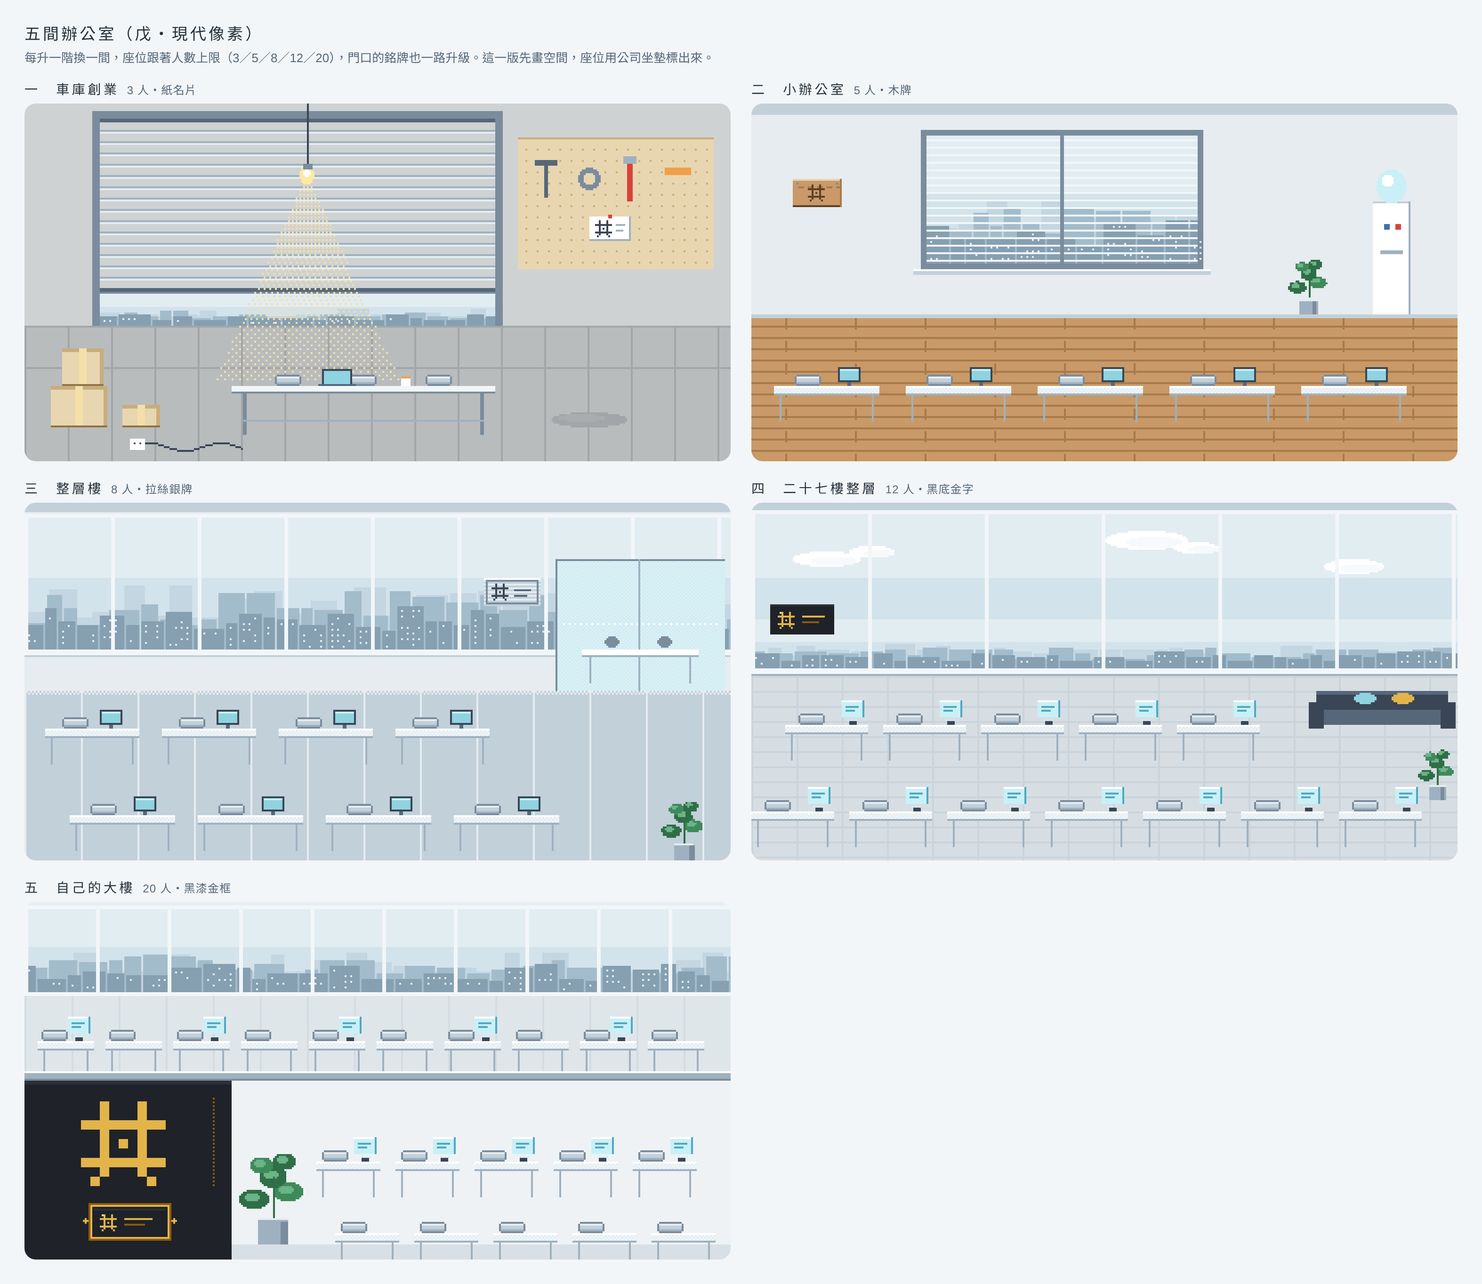
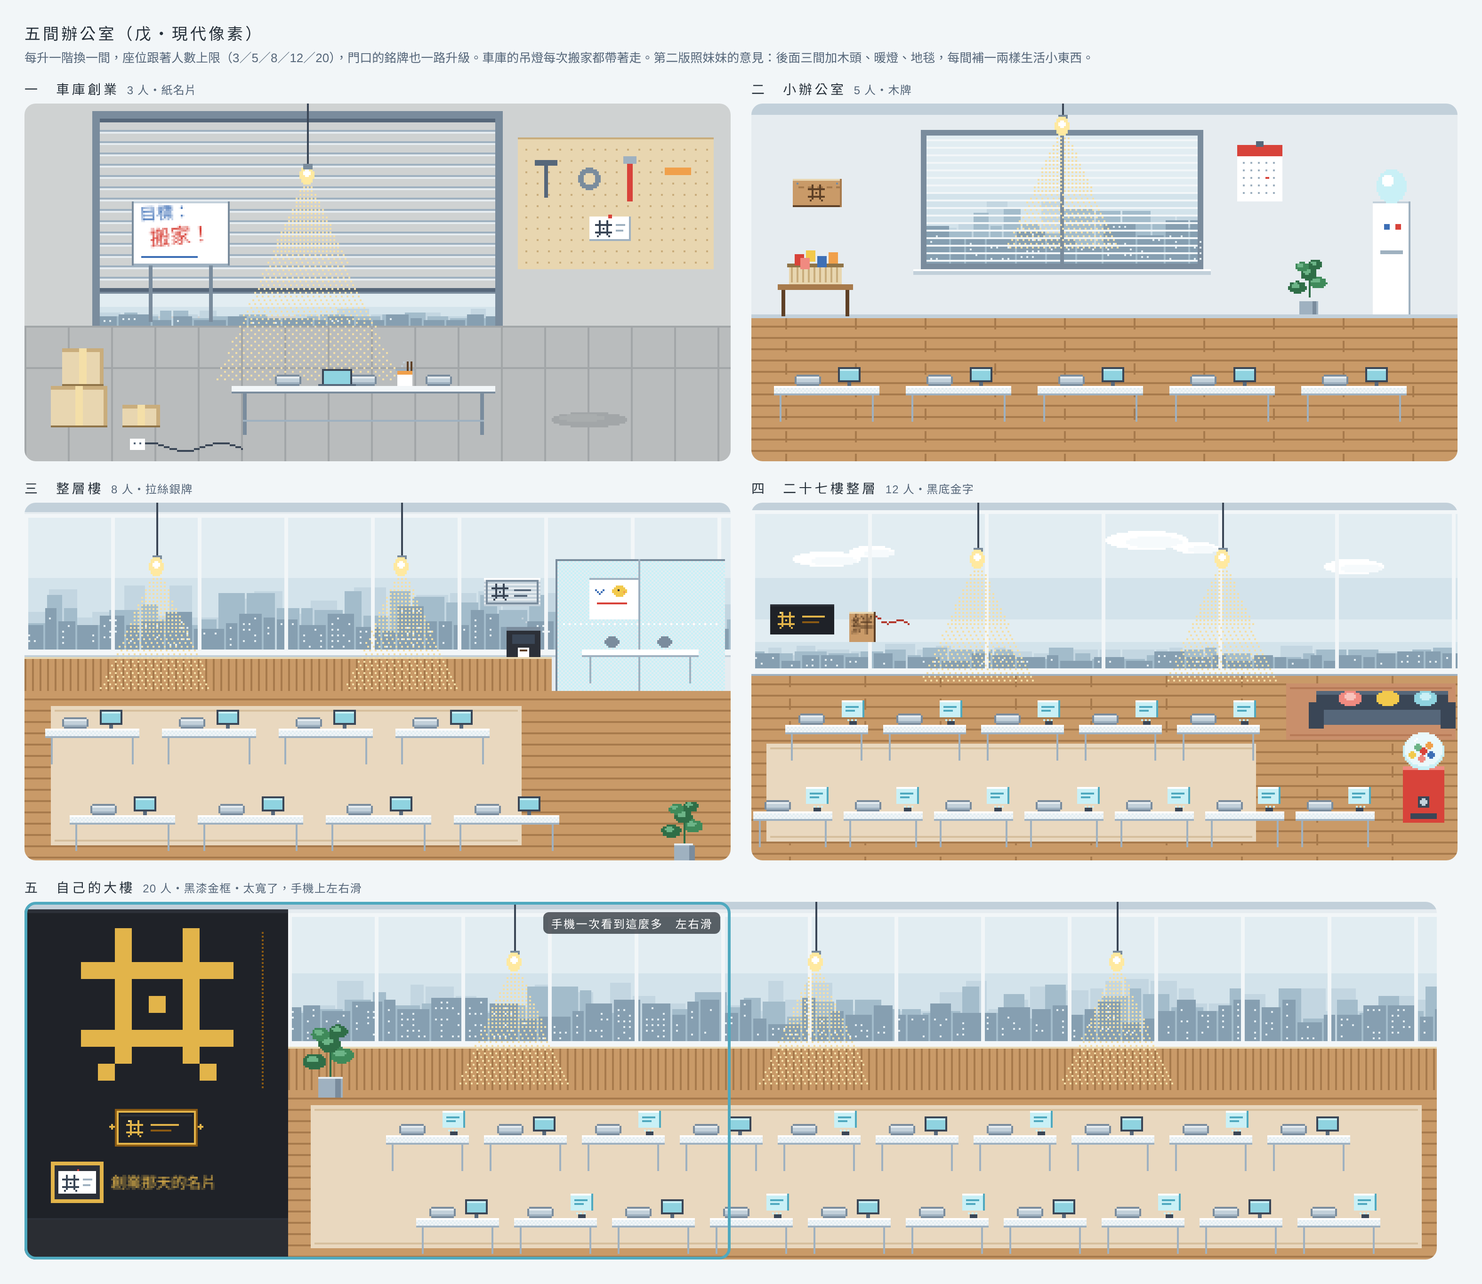
docs: five offices v2 (warmer, details, scrollable HQ)
Claude-Session: https://claude.ai/code/session_01DfELKGAuUeHGLNNJha5AAX

diff --git a/docs/plans/company/office5.html b/docs/plans/company/office5.html
@@ -5,17 +5,18 @@ body { margin: 0; background: #e4e2dd; font-family: "Noto Sans TC", sans-serif; 
 .wrap { display: inline-block; padding: 22px 26px 26px; background: #f2f6f8; }
 h1 { font-size: 17px; font-weight: 500; letter-spacing: .15em; margin: 0 0 4px; } p { font-size: 13px; margin: 0 0 14px; color: #56677a; }
 .grid { display: grid; grid-template-columns: repeat(2, 750px); gap: 18px 22px; }
-.cell h2 { font-size: 14px; font-weight: 500; letter-spacing: .2em; margin: 0 0 6px; } .cell h2 small { font-size: 12px; color: #56677a; letter-spacing: .05em; margin-left: 8px; }
+.cell h2 { font-size: 14px; font-weight: 500; letter-spacing: .2em; margin: 0 0 6px; } .wide { grid-column: span 2; } .scroll { position: relative; width: 1500px; } .scroll canvas { width: 1500px; height: 380px; } .view { position: absolute; left: 0; top: 0; width: 750px; height: 380px; border: 3px solid #4fa9bf; border-radius: 12px; box-sizing: border-box; pointer-events: none; } .view span { position: absolute; right: 8px; top: 8px; background: rgba(28,34,41,.7); color: #fff; font-size: 12px; padding: 3px 8px; border-radius: 6px; letter-spacing: .1em; }
+.cell h2 small { font-size: 12px; color: #56677a; letter-spacing: .05em; margin-left: 8px; }
 canvas { image-rendering: pixelated; width: 750px; height: 380px; display: block; border-radius: 12px; }
 </style></head><body><div class="wrap">
 <h1>五間辦公室（戊・現代像素）</h1>
-<p>每升一階換一間，座位跟著人數上限（3／5／8／12／20），門口的銘牌也一路升級。這一版先畫空間，座位用公司坐墊標出來。</p>
+<p>每升一階換一間，座位跟著人數上限（3／5／8／12／20），門口的銘牌也一路升級。車庫的吊燈每次搬家都帶著走。第二版照妹妹的意見：後面三間加木頭、暖燈、地毯，每間補一兩樣生活小東西。</p>
 <div class="grid">
   <div class="cell"><h2>一　車庫創業<small>3 人・紙名片</small></h2><canvas id="s1" width="375" height="190"></canvas></div>
   <div class="cell"><h2>二　小辦公室<small>5 人・木牌</small></h2><canvas id="s2" width="375" height="190"></canvas></div>
   <div class="cell"><h2>三　整層樓<small>8 人・拉絲銀牌</small></h2><canvas id="s3" width="375" height="190"></canvas></div>
   <div class="cell"><h2>四　二十七樓整層<small>12 人・黑底金字</small></h2><canvas id="s4" width="375" height="190"></canvas></div>
-  <div class="cell"><h2>五　自己的大樓<small>20 人・黑漆金框</small></h2><canvas id="s5" width="375" height="190"></canvas></div>
+  <div class="cell wide"><h2>五　自己的大樓<small>20 人・黑漆金框・太寬了，手機上左右滑</small></h2><div class="scroll"><canvas id="s5" width="750" height="190"></canvas><div class="view"><span>手機一次看到這麼多　左右滑</span></div></div></div>
 </div>
 </div>
 <script>
@@ -23,12 +24,12 @@ const W = 375, H = 190;
 const C = { ink0: '#1c2229', ink: '#26303a', ink2: '#3a4656', ink3: '#56677a', g1: '#7a8c9d', g2: '#9fb1c0', g3: '#c2d0da', g4: '#e6ecf0', g5: '#f2f6f8', wh: '#ffffff',
   sky1: '#c3d8e4', sky2: '#d3e3eb', sky3: '#e2edf2', c1: '#a3bccb', c2: '#869fb1', c3: '#c3d6e1', cy0: '#4fa9bf', cy: '#8fd3e0', cy2: '#c9f0f6',
   b0: '#2b5290', b1: '#3d6fb6', au0: '#8a5a14', au1: '#e2b44a', au2: '#ffe9a0', gr0: '#2f6e47', gr1: '#3f8a5a', gr2: '#6cb487',
-  kr: '#e8d6b0', kr2: '#c9ad7c', kr0: '#8f7448', wd: '#c99a68', wd2: '#a77a4c', wd0: '#5e4026', cn: '#b9bcbd', cn2: '#a2a6a8', cn3: '#cfd2d2',
+  kr: '#e8d6b0', kr2: '#c9ad7c', kr0: '#8f7448', wd: '#c99a68', wd2: '#a77a4c', wd0: '#5e4026', rg: '#e9d8bf', rg2: '#d6bf9d', rg3: '#c98f6b', pk: '#f08a80', yl: '#f2c94c', cn: '#b9bcbd', cn2: '#a2a6a8', cn3: '#cfd2d2',
   bk: '#1f2228', bk2: '#2c3038', red: '#d8433a', warm: '#f4dfa8', o2: '#f0a04b', pk2: '#f8c3bc', cl: '#f6fafc' };
 const DON = ['..x...x..', '..x...x..', 'xxxxxxxxx', '..x...x..', '..x.x.x..', '..x...x..', 'xxxxxxxxx', '..x...x..', '.x.....x.'];   // 「丼」
 
 function stage(id, draw) {
-  const x = document.getElementById(id).getContext('2d');
+  const cv = document.getElementById(id), x = cv.getContext('2d'), W = cv.width;
   const R = (a, b, w, h, c) => { x.fillStyle = c; x.fillRect(Math.round(a), Math.round(b), Math.round(w), Math.round(h)); };
   const px = (a, b, c) => R(a, b, 1, 1, c);
   const el = (cx, cy, rx, ry, c) => { for (let j = Math.floor(cy - ry); j <= cy + ry; j++) for (let i = Math.floor(cx - rx); i <= cx + rx; i++) { const u = (i + .5 - cx) / rx, v = (j + .5 - cy) / ry; if (u * u + v * v <= 1) px(i, j, c); } };
@@ -56,11 +57,15 @@ function stage(id, draw) {
     if (kind === 5) { R(a, b, 44, 20, C.au0); R(a + 1, b + 1, 42, 18, C.au1); R(a + 2, b + 2, 40, 16, C.bk); R(a + 3, b + 3, 38, 1, C.bk2); glyph(DON, a + 6, b + 6, C.au1); R(a + 19, b + 8, 15, 1, C.au1); R(a + 19, b + 11, 11, 1, C.au0);
       [[-3, 9], [44, 9]].forEach(([dx, dy]) => { px(a + dx + 1, b + dy - 1, C.au1); R(a + dx, b + dy, 3, 1, C.au1); px(a + dx + 1, b + dy + 1, C.au1); }); px(a + 7, b + 6, C.au2); }
   };
-  draw({ R, px, el, checker, dither, glyph, city, glassDesk, monitor, cushion, plant, sign });
+  const lamp = (lx, top, len) => { R(lx, top, 1, len, C.ink2); R(lx - 2, top + len - 2, 5, 3, C.g1); el(lx, top + len + 4, 4, 5, C.au2); el(lx, top + len + 3, 2, 2, C.wh);   // 車庫那顆燈泡，每次搬家都帶走
+    for (let j = top + len + 9; j < top + len + 70; j++) { const half = 3 + (j - top - len - 9) * .45, step = j - top - len < 40 ? 2 : 3; for (let i = Math.round(lx - half); i <= lx + half; i++) if ((i + j) % step === 0 && j % 2 === 0) px(i, j, C.warm); } };
+  const txt = (str, a, b, size, col, rot = 0) => { x.save(); x.translate(a, b); x.rotate(rot); x.fillStyle = col; x.font = `${size}px "Noto Sans TC", sans-serif`; x.textBaseline = 'top'; x.fillText(str, 0, 0); x.restore(); };
+  const rug = (a, b, w, h, c1, c2) => { R(a, b, w, h, c1); R(a + 2, b + 2, w - 4, 1, c2); R(a + 2, b + h - 3, w - 4, 1, c2); };
+  draw({ R, px, el, checker, dither, glyph, city, glassDesk, monitor, cushion, plant, sign, lamp, txt, rug, W });
 }
 
 // ===== 一　車庫創業：半開的鐵捲門、水泥地、一張折疊桌三個坐墊、吊燈泡、紙箱、延長線 =====
-stage('s1', ({ R, px, el, checker, dither, city, cushion, sign }) => {
+stage('s1', ({ R, px, el, checker, dither, glyph, city, glassDesk, monitor, cushion, plant, sign, lamp, txt, rug, W }) => {
   R(0, 0, W, H, C.cn3);
   for (let j = 8; j < 118; j += 6) { R(40, j, 210, 1, C.g2); R(40, j + 1, 210, 1, C.g4); }   // 鐵捲門的橫條
   R(36, 4, 218, 4, C.g1); R(36, 4, 4, 114, C.g1); R(250, 4, 4, 114, C.g1); R(40, 8, 210, 2, C.ink3);
@@ -73,71 +78,91 @@ stage('s1', ({ R, px, el, checker, dither, city, cushion, sign }) => {
   sign(300, 60, 1);
   // 吊燈泡
   R(150, 0, 1, 34, C.ink2); el(150, 38, 4, 5, C.au2); el(150, 37, 2, 2, C.wh); R(148, 32, 5, 3, C.g1); for (let j = 44; j < 148; j++) { const half = 3 + (j - 44) * .45, step = j < 80 ? 2 : j < 115 ? 3 : 4; for (let i = Math.round(150 - half); i <= 150 + half; i++) if ((i + j) % step === 0 && (j % 2 === 0)) px(i, j, C.warm); }   // 燈泡往下的光，越下面越淡
+  R(58, 52, 50, 34, C.wh); R(58, 52, 50, 1, C.g3); R(58, 85, 50, 1, C.g2); R(57, 52, 1, 34, C.g1); R(108, 52, 1, 34, C.g1); R(66, 86, 2, 30, C.g1); R(98, 86, 2, 30, C.g1);   // 白板
+  txt('目標：', 61, 55, 9, C.b1, -.05); txt('搬家！', 66, 67, 11, C.red, -.08); R(62, 81, 30, 1, C.b1);
   // 紙箱
   [[14, 150, 30, 22], [20, 130, 22, 20], [52, 160, 20, 12]].forEach(([a, b, w, h]) => { R(a, b, w, h, C.kr); R(a, b, w, 2, C.kr2); R(a + w / 2 - 2, b, 4, h, C.warm); R(a + w - 2, b, 2, h, C.kr2); R(a, b + h - 1, w, 1, C.kr0); });
   // 折疊桌＋三個坐墊
   const ty = 150; R(110, ty, 140, 3, C.g5); R(110, ty + 3, 140, 1, C.g1); R(116, ty + 4, 2, 22, C.g1); R(242, ty + 4, 2, 22, C.g1); R(116, ty + 18, 128, 1, C.g2);
   [140, 180, 220].forEach(cx => cushion(cx, ty));
   R(158, ty - 9, 16, 9, C.ink2); R(159, ty - 8, 14, 7, C.cy); R(156, ty - 1, 20, 1, C.ink3);   // 一台筆電
-  R(200, ty - 5, 5, 5, C.wh); R(200, ty - 5, 5, 1, C.o2);   // 泡麵杯
+  R(198, ty - 8, 8, 8, C.wh); R(198, ty - 8, 8, 2, C.o2); R(197, ty - 9, 10, 1, C.g2); R(203, ty - 13, 1, 5, C.wd0); R(205, ty - 13, 1, 5, C.wd0); px(200, ty - 11, C.g3); px(201, ty - 13, C.g3);   // 一碗泡麵（插著筷子、冒煙）
   for (let i = 60; i < 116; i++) px(i, 182 + Math.round(Math.sin(i / 6) * 2), C.ink2); R(56, 178, 8, 6, C.wh); px(58, 180, C.ink3); px(61, 180, C.ink3);   // 延長線
 });
 
 // ===== 二　小辦公室：一扇百葉窗、五張小桌、飲水機、盆栽、木牌 =====
-stage('s2', ({ R, px, el, checker, dither, city, glassDesk, monitor, cushion, plant, sign }) => {
+stage('s2', ({ R, px, el, checker, dither, glyph, city, glassDesk, monitor, cushion, plant, sign, lamp, txt, rug, W }) => {
   R(0, 0, W, H, C.g4); R(0, 0, W, 6, C.g3); R(0, 112, W, 2, C.g3);
   R(90, 14, 150, 74, C.g1); city(93, 17, 144, 68, 21); for (let j = 19; j < 84; j += 4) R(93, j, 144, 1, C.g5); R(164, 17, 2, 68, C.g1);   // 一扇窗＋百葉
   R(86, 88, 158, 3, C.g3); R(86, 88, 158, 1, C.wh);
   sign(22, 40, 2);
+  R(258, 22, 24, 30, C.wh); R(258, 22, 24, 6, C.red); R(268, 20, 4, 3, C.ink3); for (let j = 31; j < 50; j += 4) for (let i = 261; i < 280; i += 4) px(i, j, C.g2); px(273, 39, C.red); px(274, 39, C.red);   // 牆上的月曆（圈了一天）
+  lamp(165, 0, 8);
   // 飲水機
   R(330, 52, 20, 60, C.wh); R(330, 52, 20, 1, C.g3); R(349, 52, 1, 60, C.g2); el(340, 44, 8, 9, C.cy2); el(338, 41, 3, 3, C.wh); R(336, 64, 3, 3, C.b1); R(342, 64, 3, 3, C.red); R(334, 78, 12, 2, C.g2);
   plant(296, 112, 1.2);
+  R(14, 96, 40, 3, C.wd2); R(16, 99, 2, 14, C.wd0); R(50, 99, 2, 14, C.wd0); R(20, 86, 28, 10, C.kr); for (let i = 21; i < 47; i += 3) R(i, 87, 1, 8, C.kr2); R(19, 85, 30, 2, C.kr0);   // 零食籃
+  [[23, 80, C.red], [29, 78, C.yl], [35, 81, C.b1], [41, 79, C.o2], [26, 82, C.pk]].forEach(([a, b, c]) => R(a, b, 5, 6, c));
   R(0, 114, W, 76, C.wd); for (let j = 118; j < H; j += 6) R(0, j, W, 1, C.wd2); for (let i = 0; i < W; i += 37) for (let j = 114; j < H; j += 12) R(i + (j % 24 ? 18 : 0), j, 1, 6, C.wd2);   // 木地板
   [40, 110, 180, 250, 320].forEach((cx, k) => { glassDesk(cx, 150, 56, false); monitor(cx + 12, 150); cushion(cx - 10, 150); });
 });
 
 // ===== 三　整層樓：一整排落地窗、八個位子（兩排）、玻璃會議室、拉絲銀牌 =====
-stage('s3', ({ R, px, el, checker, dither, city, glassDesk, monitor, cushion, plant, sign }) => {
+stage('s3', ({ R, px, el, checker, dither, glyph, city, glassDesk, monitor, cushion, plant, sign, lamp, txt, rug, W }) => {
   R(0, 0, W, H, C.g4); R(0, 0, W, 5, C.g3);
   city(0, 8, W, 70, 33); for (let i = 0; i < W; i += 46) R(i, 8, 2, 70, C.g5); R(0, 6, W, 2, C.g5); R(0, 78, W, 3, C.g5); R(0, 81, W, 1, C.g3);
   // 右邊的玻璃會議室
   R(282, 30, 90, 70, C.cy2); dither(282, 30, 90, 70, C.sky3); R(282, 30, 90, 1, C.g1); R(282, 30, 1, 70, C.g1); R(326, 30, 1, 70, C.g2); for (let i = 286; i < 370; i += 3) px(i, 64, C.wh);
   R(296, 78, 62, 3, C.wh); R(296, 81, 62, 1, C.g2); R(300, 82, 1, 14, C.g2); R(353, 82, 1, 14, C.g2); el(312, 74, 4, 3, C.g1); el(340, 74, 4, 3, C.g1);
   sign(244, 40, 3);
-  R(0, 100, W, 90, C.g3); checker(0, 100, W, 2, C.g4, C.g3); for (let i = 0; i < W; i += 30) R(i, 100, 1, 90, C.g4);   // 灰地毯
+  R(0, 82, 280, 18, C.wd); for (let i = 0; i < 280; i += 4) R(i, 82, 1, 18, C.wd2); R(0, 82, 280, 1, C.kr);   // 窗下一排木頭牆板
+  R(300, 40, 26, 22, C.wh); R(300, 40, 26, 1, C.g2); [[303, 46], [304, 47], [305, 48], [306, 47], [307, 46]].forEach(([a, b]) => px(a, b, C.b1)); el(316, 47, 4, 3, C.yl); px(315, 46, C.ink); px(318, 47, C.o2); R(304, 53, 16, 1, C.red);   // 會議室白板的塗鴉（畫了一隻鴨）
+  R(0, 100, W, 90, C.wd); for (let j = 104; j < H; j += 6) R(0, j, W, 1, C.wd2);   // 木地板
+  rug(14, 108, 250, 74, C.rg, C.rg2);   // 暖色地毯
+  R(256, 66, 18, 16, C.bk2); R(256, 66, 18, 2, C.g1); R(259, 70, 12, 5, C.ink2); R(262, 77, 6, 5, C.wh); R(263, 78, 4, 1, C.wd0); px(266, 63, C.g3); px(264, 61, C.g3);   // 咖啡機
+  lamp(70, 0, 30); lamp(200, 0, 30);
   [36, 98, 160, 222].forEach(cx => { glassDesk(cx, 120, 50, false); monitor(cx + 10, 120); cushion(cx - 9, 120); });   // 後排四個
   [52, 120, 188, 256].forEach(cx => { glassDesk(cx, 166, 56, false); monitor(cx + 12, 166); cushion(cx - 10, 166); });  // 前排四個
   plant(350, 190, 1.3);
 });
 
 // ===== 四　二十七樓整層：落地窗看出去在雲上、十二個位子、全息螢幕、沙發區、黑底金字 =====
-stage('s4', ({ R, px, el, checker, dither, city, glassDesk, cushion, plant, sign }) => {
+stage('s4', ({ R, px, el, checker, dither, glyph, city, glassDesk, monitor, cushion, plant, sign, lamp, txt, rug, W }) => {
   R(0, 0, W, H, '#dfe7ec'); R(0, 0, W, 4, C.g3);
   R(0, 6, W, 82, C.sky3); R(0, 40, W, 48, C.sky2); city(0, 62, W, 26, 51, 0);   // 27 樓：城市在很下面
   [[40, 30, 18, 4], [64, 26, 12, 3], [210, 20, 22, 5], [236, 24, 12, 3], [320, 34, 16, 4]].forEach(([a, b, rx, ry]) => { el(a, b, rx, ry, C.wh); el(a + 4, b + 1, rx * .7, ry * .6, C.cl); });   // 雲
   for (let i = 0; i < W; i += 62) R(i, 6, 2, 82, C.g5); R(0, 4, W, 2, C.g5); R(0, 88, W, 3, C.g5); R(0, 91, W, 1, C.g2);
   sign(10, 54, 4);
-  R(0, 92, W, 98, '#d6dee4'); for (let j = 92; j < H; j += 8) R(0, j, W, 1, '#cbd4db'); for (let i = 0; i < W; i += 24) R(i, 92, 1, 98, '#cbd4db');   // 淺色石材地
+  R(0, 92, W, 98, C.wd); for (let j = 96; j < H; j += 6) R(0, j, W, 1, C.wd2); for (let i = 0; i < W; i += 40) for (let j = 92; j < H; j += 12) R(i + (j % 24 ? 20 : 0), j, 1, 6, C.wd2);   // 木地板
+  rug(284, 96, 90, 30, C.rg3, '#b77a57');   // 沙發區的地毯
+  rug(8, 128, 260, 52, C.rg, C.rg2);
+  lamp(120, 0, 26); lamp(250, 0, 26);
   // 右邊的沙發區
-  R(300, 100, 70, 10, C.ink2); R(300, 100, 70, 2, C.ink3); R(296, 106, 8, 14, C.ink2); R(366, 106, 8, 14, C.ink2); R(304, 110, 62, 8, C.ink3); el(326, 104, 6, 3, C.cy); el(346, 104, 6, 3, C.au1);
+  R(300, 100, 70, 10, C.ink2); R(300, 100, 70, 2, C.ink3); R(296, 106, 8, 14, C.ink2); R(366, 106, 8, 14, C.ink2); R(304, 110, 62, 8, C.ink3); el(318, 104, 6, 4, C.pk); el(318, 103, 3, 2, C.pk2); el(338, 104, 6, 4, C.yl); el(358, 104, 6, 4, C.cy); el(358, 103, 3, 2, C.cy2);   // 沙發上的抱枕
   [40, 92, 144, 196, 248].forEach(cx => { glassDesk(cx, 118, 44, true); cushion(cx - 8, 118); });   // 後排
-  [22, 74, 126, 178, 230, 282, 334].forEach((cx, k) => { if (k < 7) { glassDesk(cx, 164, 44, true); cushion(cx - 8, 164); } });   // 前排
-  plant(364, 158, 1.1);
+  [22, 70, 118, 166, 214, 262, 310].forEach(cx => { glassDesk(cx, 164, 42, true); cushion(cx - 8, 164); });   // 前排（右邊留給扭蛋機）
+  // 扭蛋機（跟員工 01～08 呼應）
+  R(346, 140, 22, 30, C.red); R(346, 140, 22, 2, C.pk); R(354, 156, 6, 6, C.ink2); el(357, 159, 2, 2, C.g3); R(350, 165, 14, 3, C.ink2);
+  el(357, 132, 11, 10, C.cy2); el(357, 131, 10, 9, '#eaf8fb'); [[351, 134, C.yl], [356, 136, C.pk], [361, 134, C.b1], [354, 130, C.gr2], [360, 129, C.o2], [357, 132, C.red]].forEach(([a, b, c]) => el(a, b, 2, 2, c)); px(352, 126, C.wh); px(353, 125, C.wh);
+  // 彩蛋：門邊小小一塊「絆」的木牌，綁一條朱色紅線
+  R(52, 58, 14, 16, C.wd); R(52, 58, 14, 1, C.kr); R(65, 58, 1, 16, C.wd0); txt('絆', 53, 60, 12, C.wd0); for (let k = 0; k < 18; k++) px(66 + k, 60 + Math.round(Math.sin(k / 3) * 2) + Math.floor(k / 3), '#b33a2f');
 });
 
-// ===== 五　自己的大樓：兩層挑高的剖面、大廳「丼」字牆、二十個位子、室內樹、黑漆金框銘牌 =====
-stage('s5', ({ R, px, el, checker, dither, glyph, city, glassDesk, cushion, plant, sign }) => {
-  R(0, 0, W, H, '#e9eef1');
-  // 樓上（10 個位子）
-  city(0, 4, W, 44, 77); for (let i = 0; i < W; i += 38) R(i, 4, 2, 44, C.g5); R(0, 2, W, 2, C.g5); R(0, 48, W, 2, C.g5);
-  R(0, 50, W, 40, '#dfe6ea'); for (let i = 0; i < W; i += 25) R(i, 50, 1, 40, '#d3dce1');
-  for (let k = 0; k < 10; k++) { const cx = 22 + k * 36; glassDesk(cx, 74, 30, k % 2 === 0); cushion(cx - 6, 74); }
-  R(0, 90, W, 5, C.g2); R(0, 90, W, 1, C.wh); R(0, 94, W, 1, C.g1);   // 樓板
-  // 樓下：大廳（丼字牆＋銘牌＋樹）＋ 10 個位子
-  R(0, 95, 110, 95, C.bk); R(0, 95, 110, 2, C.bk2); glyph(DON, 30, 106, C.au1, 5); for (let j = 104; j < 152; j += 2) px(100, j, C.au0);   // 黑色「丼」字牆
-  sign(34, 160, 5);
-  R(110, 95, W - 110, 95, '#eef2f4'); R(110, 182, W - 110, 8, '#d8e0e5');
-  plant(132, 182, 2);   // 室內樹
-  for (let k = 0; k < 10; k++) { const row = k < 5 ? 0 : 1, i = k % 5, cx = 172 + i * 42 + (row ? 10 : 0), y = row ? 176 : 138; glassDesk(cx, y, 34, row === 0); cushion(cx - 7, y); }
+// ===== 五　自己的大樓：太寬了做成左右滑（750 寬，手機一次看 375）。左邊大廳：黑色「丼」字牆、黑漆金框銘牌、牆上裱框的車庫紙名片、吊燈；右邊兩排二十個位子 =====
+stage('s5', ({ R, px, el, checker, dither, glyph, city, glassDesk, monitor, cushion, plant, sign, lamp, txt, rug, W }) => {
+  R(0, 0, W, H, C.g4); R(0, 0, W, 4, C.g3);
+  city(140, 8, W - 140, 66, 77); for (let i = 140; i < W; i += 46) R(i, 8, 2, 66, C.g5); R(140, 6, W - 140, 2, C.g5); R(140, 74, W - 140, 3, C.g5);
+  R(140, 77, W - 140, 23, C.wd); for (let i = 140; i < W; i += 4) R(i, 77, 1, 23, C.wd2); R(140, 77, W - 140, 1, C.kr);   // 窗下木牆板
+  R(0, 4, 140, 186, C.bk); R(0, 4, 140, 2, C.bk2); glyph(DON, 30, 14, C.au1, 9); for (let j = 16; j < 100; j += 2) px(126, j, C.au0);   // 黑色「丼」字牆
+  sign(48, 110, 5);
+  R(14, 138, 28, 22, C.au1); R(16, 140, 24, 18, C.bk2); R(18, 143, 20, 12, C.wh); glyph(DON, 20, 145, C.ink2); R(31, 147, 5, 1, C.g2); R(31, 150, 4, 1, C.g2); px(28, 142, C.red);   // 裱框的車庫紙名片
+  txt('創業那天的名片', 46, 146, 8, C.au1);
+  R(0, 168, 140, 22, '#2a2d33'); R(0, 168, 140, 1, C.bk2);
+  R(140, 100, W - 140, 90, C.wd); for (let j = 104; j < H; j += 6) R(140, j, W - 140, 1, C.wd2);
+  rug(152, 108, 590, 76, C.rg, C.rg2);
+  plant(162, 104, 1.6);
+  [260, 420, 580].forEach(lx => lamp(lx, 0, 28));
+  for (let k = 0; k < 10; k++) { const cx = 214 + k * 52; glassDesk(cx, 124, 44, k % 2 === 0); if (k % 2) monitor(cx + 10, 124); cushion(cx - 8, 124); }   // 後排十個
+  for (let k = 0; k < 10; k++) { const cx = 230 + k * 52; glassDesk(cx, 168, 44, k % 2 === 1); if (k % 2 === 0) monitor(cx + 10, 168); cushion(cx - 8, 168); }   // 前排十個
 });
 </script></body></html>

diff --git a/docs/plans/company/README.md b/docs/plans/company/README.md
@@ -67,3 +67,4 @@
   - 使用者：「烏龜怎麼有三個圈圈」——三個六角形外框縮小後像三個圈。改成中間一片六角形、從角拉線到殼邊分成一塊一塊（真的龜殼殼片的樣子）。對照 `turtle-shell.png`。
   - 拉線版使用者說「像亂畫的線」。改出兩種：淺色殼片（殼底色深一階、上面五塊淺綠六角殼片、縫是深色）、素面一道亮。**使用者選殼片版**（`staffcast.html` 預設 `turtle=1`）。
 - **五間辦公室草稿（戊）** `office5.html`／`office5.png`：座位跟人數上限（坐墊標位子），銘牌一路升級。一 車庫創業：半開鐵捲門（底下看得到外面）、水泥地＋油漬、吊燈泡往下的光、洞洞板工具牆＋紙名片、紙箱、延長線、一張折疊桌三個坐墊＋筆電＋泡麵杯。二 小辦公室：一扇百葉窗、木地板、五張小桌、飲水機、盆栽、木牌。三 整層樓：整排落地窗、灰地毯、兩排共八個位子、玻璃會議室、拉絲銀牌。四 二十七樓整層：落地窗看出去在雲上（城市在很下面）、石材地、十二個位子都有全息螢幕、沙發區、黑底金字。五 自己的大樓：兩層剖面，樓上十個位子、樓下黑色「丼」字牆＋黑漆金框銘牌＋室內樹＋十個位子。舊的 `offices.png` 是改畫風前的。
+  - 妹妹第一輪：車庫、小辦公室有故事感；後三間「越升級越像考場或網咖」、灰藍太冷（角色放進去像在醫院上班）、大樓太擠。使用者：「都照妹妹的意見。」第二版：車庫那顆吊燈每次搬家都帶著走（每間都有）；車庫白板歪歪寫「目標：搬家！」、泡麵插筷子冒煙；小辦公室月曆（圈一天）、零食籃；整層樓木牆板＋木地板＋暖色地毯、咖啡機、會議室白板畫了一隻鴨；二十七樓木地板、地毯、沙發抱枕、扭蛋機（呼應員工 01～08）、彩蛋＝門邊一塊「絆」木牌綁朱色紅線；大樓改成 750 寬可以左右滑（手機一次看 375），大廳牆上裱框掛著車庫那張紙名片「創業那天的名片」，二十個位子跟整層樓一樣大。對照 `office5-before-after.png`。

diff --git a/changelog/2026-11.md b/changelog/2026-11.md
@@ -1387,3 +1387,8 @@
 ## 2026-11-25 10:00（台灣）　開公司：五間辦公室草稿
 - 照新畫風畫了五間辦公室：車庫創業（3 人）、小辦公室（5 人）、整層樓（8 人）、二十七樓整層（12 人，窗外在雲上）、自己的大樓（20 人，兩層樓、大廳一面「丼」字牆）。門口的銘牌從紙名片一路升級到黑漆金框。
 - 草稿在 `docs/plans/company/office5.png`，等妹妹看。只是企劃，網站沒有變。
+
+## 2026-11-25 10:30（台灣）　開公司：五間辦公室照妹妹的意見改
+- 後面三間加了木頭、地毯和暖燈，不再冷冰冰；車庫那顆吊燈每次搬家都跟著帶走。
+- 每間多了生活小東西：車庫白板寫「目標：搬家！」、小辦公室的月曆和零食籃、整層樓的咖啡機和白板塗鴉、二十七樓的抱枕和扭蛋機（還藏了一塊「絆」的木牌綁紅線）。
+- 自己的大樓改成可以左右滑，大廳牆上裱框掛著創業那天的紙名片。對照 `docs/plans/company/office5-before-after.png`。只是企劃，網站沒有變。
